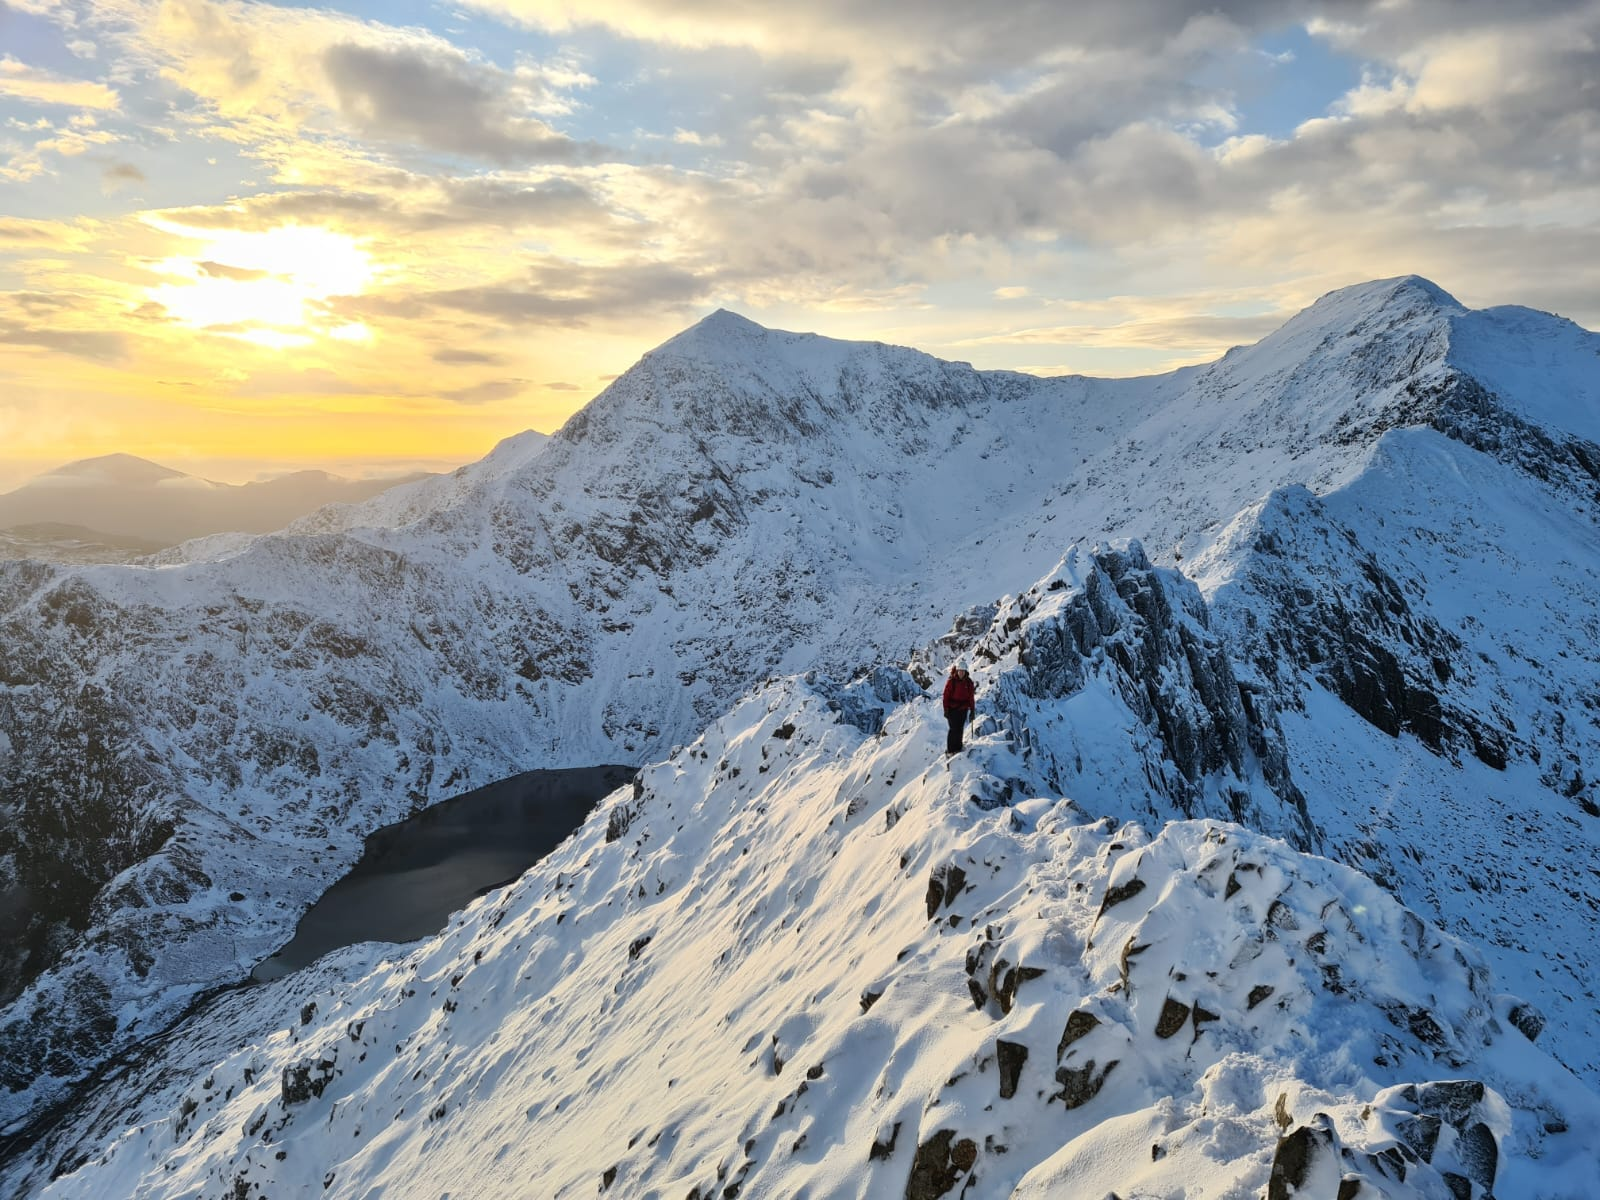
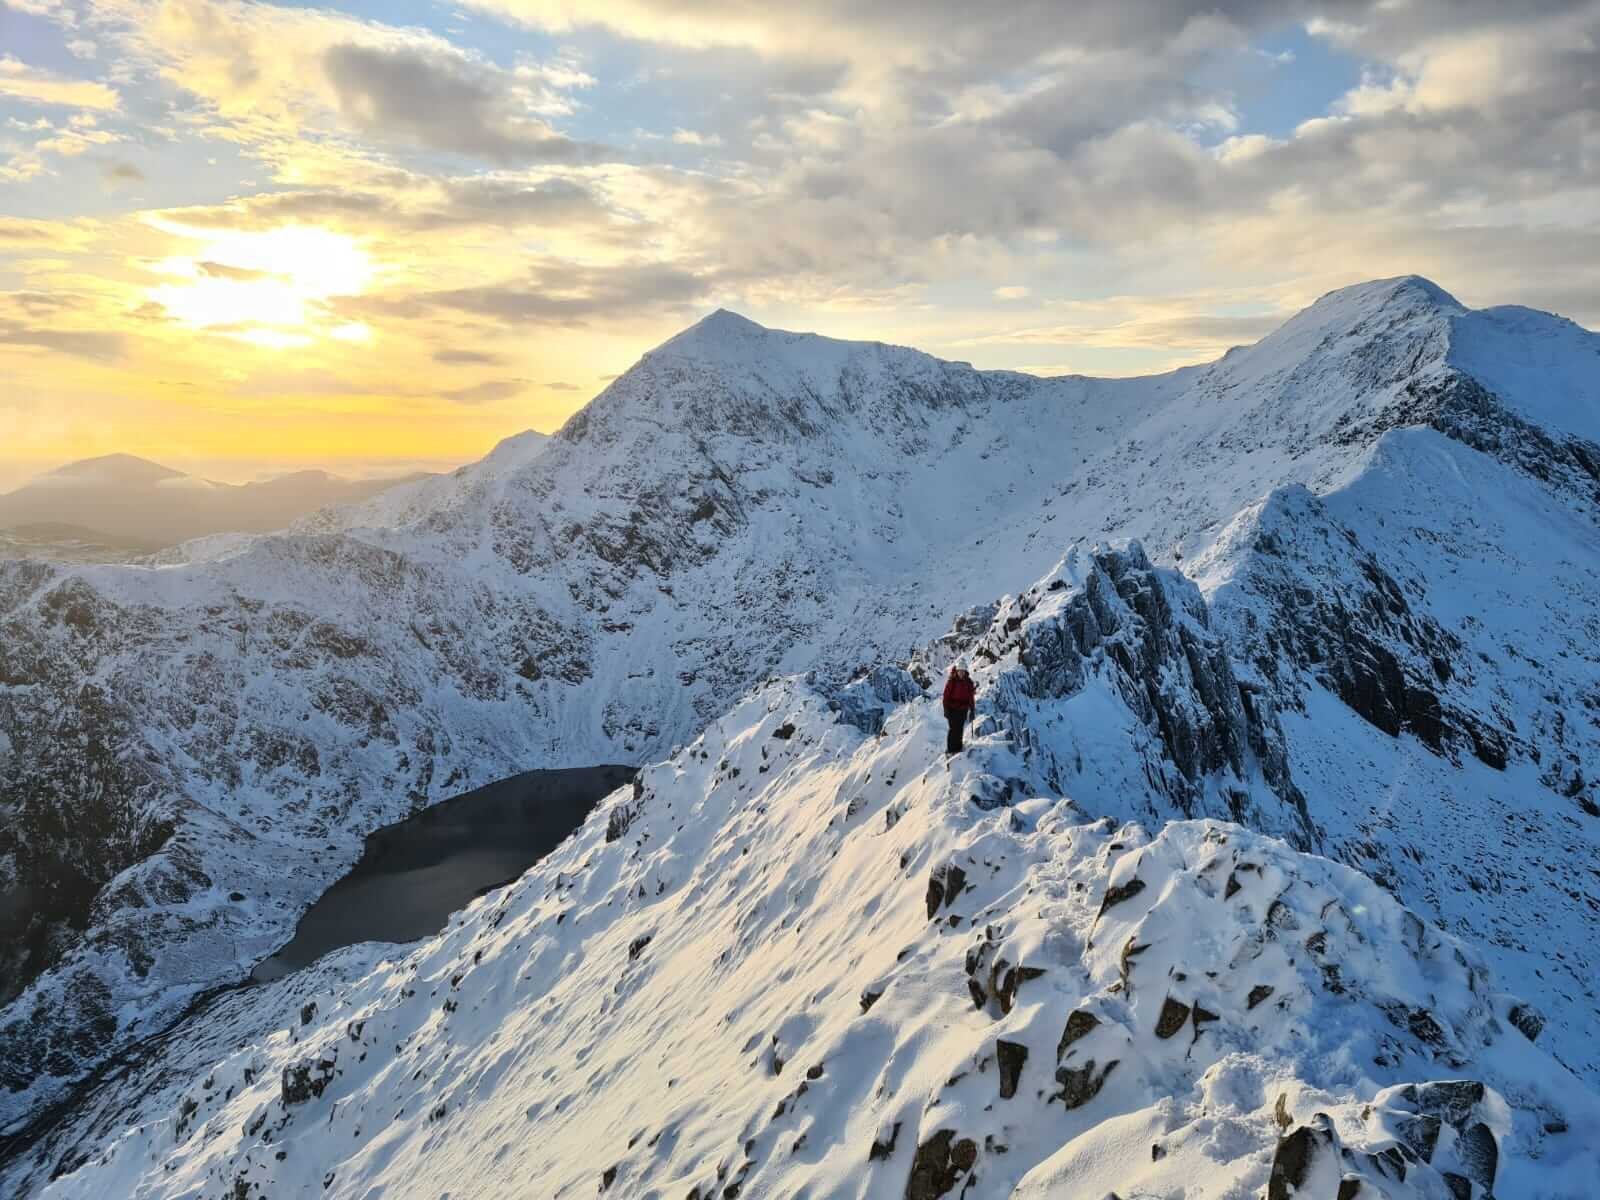
amend all img sizes and convert to .webp for improved performance

diff --git a/index.html b/index.html
@@ -36,6 +36,9 @@
   
   <!--Stylesheet-->
   <link rel="stylesheet" href="assets/css/style.css">
+
+  <!-- Preload the background image with high priority -->
+  <link rel="preload" href="assets/images/maincribgoch1600px.webp" as="image" fetchpriority="high" />
     
 </head>
 <body>
@@ -90,28 +93,28 @@
     <h2>Regions To Explore</h2>
     <div class="region-cards">
       <div class="region-card">
-        <img src="assets/images/tryfan.jpg" alt="Mountains of Wales">
+        <img src="assets/images/tryfan600pwx.webp" alt="Mountains of Wales" loading="lazy">
         <a href="X">
           <h3 class="hover-over">Mountains of Wales</h3>
         </a>
         <p>The Brecon Beacons & Snowdonia National park contain some of the Uks classic routes, including tryfan & for those with a head for heights, Crib Goch, the most exicting route up to Snowdon!</p>
       </div>
       <div class="region-card">
-        <img src="assets/images/ben-nevis.jpg" alt="Mountains of Scotland">
+        <img src="assets/images/bennevis600pxw.webp" alt="Mountains of Scotland" loading="lazy">
         <a href="X">
           <h3 class="hover-over">Mountains of Scotland</h3>
         </a>
         <p>The Scottish Mountains can be some of the most wild in the UK. From the Caingorms to Glencoe & the Isle of Skye, there is something for everybody</p>
       </div>
       <div class="region-card">
-        <img src="assets/images/helvellyn.jpg" alt="Mountains of the Lake Distrcit">
+        <img src="assets/images/helvellyn600pxw.webp" alt="Mountains of the Lake Distrcit" loading="lazy">
         <a href="X">
           <h3 class="hover-over">Mountains of the Lake District</h3>
         </a>
         <p>Explore the Wainwirght's, with classic routes & various grades of scrambling. From the classic ridges of Helvellyn to the Scafell range including Englands highest peak</p>
       </div>
       <div class="region-card">
-        <img src="assets/images/kinderscout.webp" alt="Mountains of the Peak District">
+        <img src="assets/images/kinderscout600pxw.webp" alt="Mountains of the Peak District" loading="lazy">
         <a href="X">
           <h3 class="hover-over">Mountains of the Peak District</h3>
         </a>

diff --git a/assets/css/style.css b/assets/css/style.css
@@ -110,7 +110,7 @@ nav ul.show {
 }
    /* Main content*/
    .main-content {
-    background-image: url('../images/maincribgoch.jpg');
+    background-image: url('../images/maincribgoch1600px.webp');
     background-size: cover;
     background-position: center;
     height: 100vh;
@@ -378,10 +378,11 @@ nav ul.show {
 }
 
 .equip-image {
-  width: auto; 
+  width: 100%; 
   height: auto; 
   display: block; 
-  max-width: 100%; 
+  aspect-ratio: 16 / 9;
+  object-fit: cover;
 }
 
 #equip-text {
@@ -456,18 +457,26 @@ nav ul.show {
 /* Equipment Content */
 
 .max-width {
-  max-width: 1800px;
+  max-width: 1200px;
+  width:100%;
   display: block;
   margin: 0 auto;
 }
 
 .equip-content {
-  width: 80%;
+  width: 100%;
+  max-width: 1200px;
   margin: 50px auto;
   padding: 20px;
   background-color: #fff;
   border-radius: 8px;
   box-shadow: 0 4px 8px rgba(0, 0, 0, 0.1);
+  /* Flexbox Layout */
+  display: flex;
+  flex-direction: column; /* Stack the content vertically */
+  justify-content: flex-start; /* Align items at the top */
+  align-items: stretch; /* Ensure all items stretch to full width */
+  min-height:400px;
 }
 
 .equip-content h2 {

diff --git a/equipment.html b/equipment.html
@@ -36,7 +36,7 @@
   
   <!--Stylesheet-->
   <link rel="stylesheet" href="assets/css/style.css">
-    
+
 </head>
 <body>
  <!--Navigation-->
@@ -61,7 +61,7 @@
 <div id="content-wrapper">
   <div id="equip-container">
       <div class="equip-wrapper">
-          <img src="assets/images/equipment.jpg" alt="Equipment on a table" class="equip-image">
+          <img src="assets/images/equipment.webp" alt="Equipment on a table" class="equip-image" loading="lazy">
           <div id="equip-text">
               <h2>Equipment Required</h2>
               <h3>Essentials for your Winter Tour</h3>
